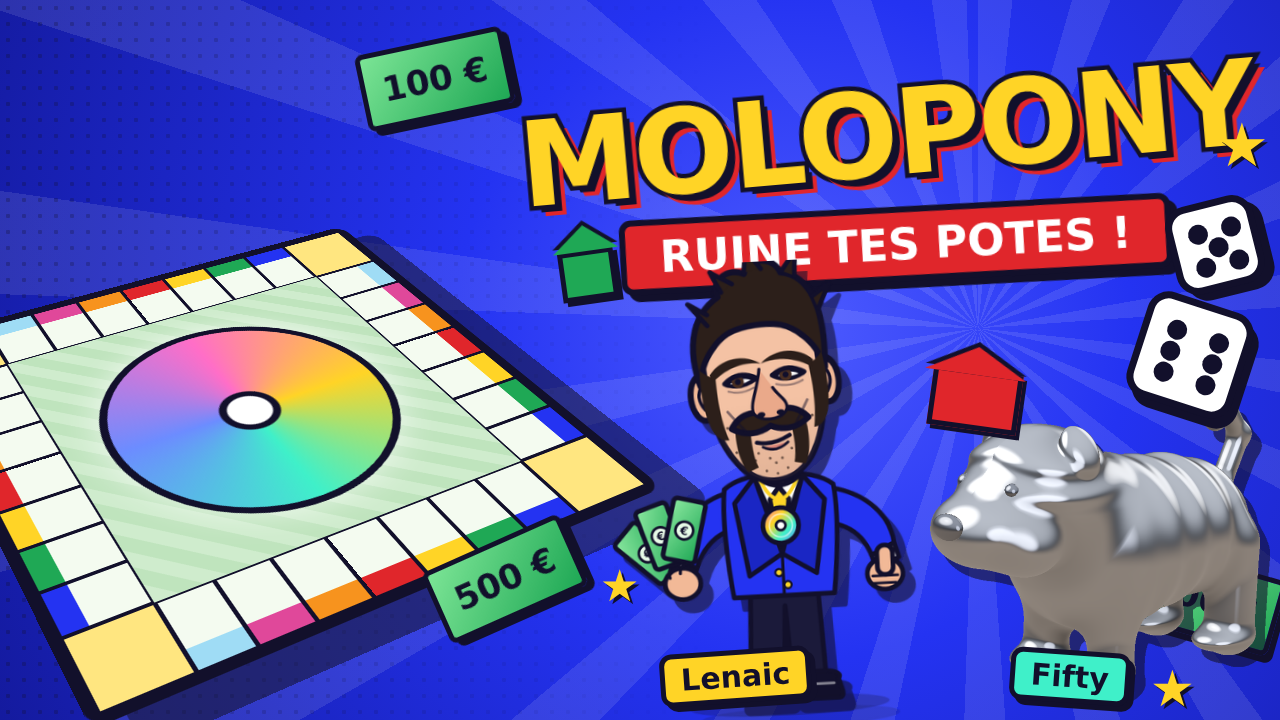
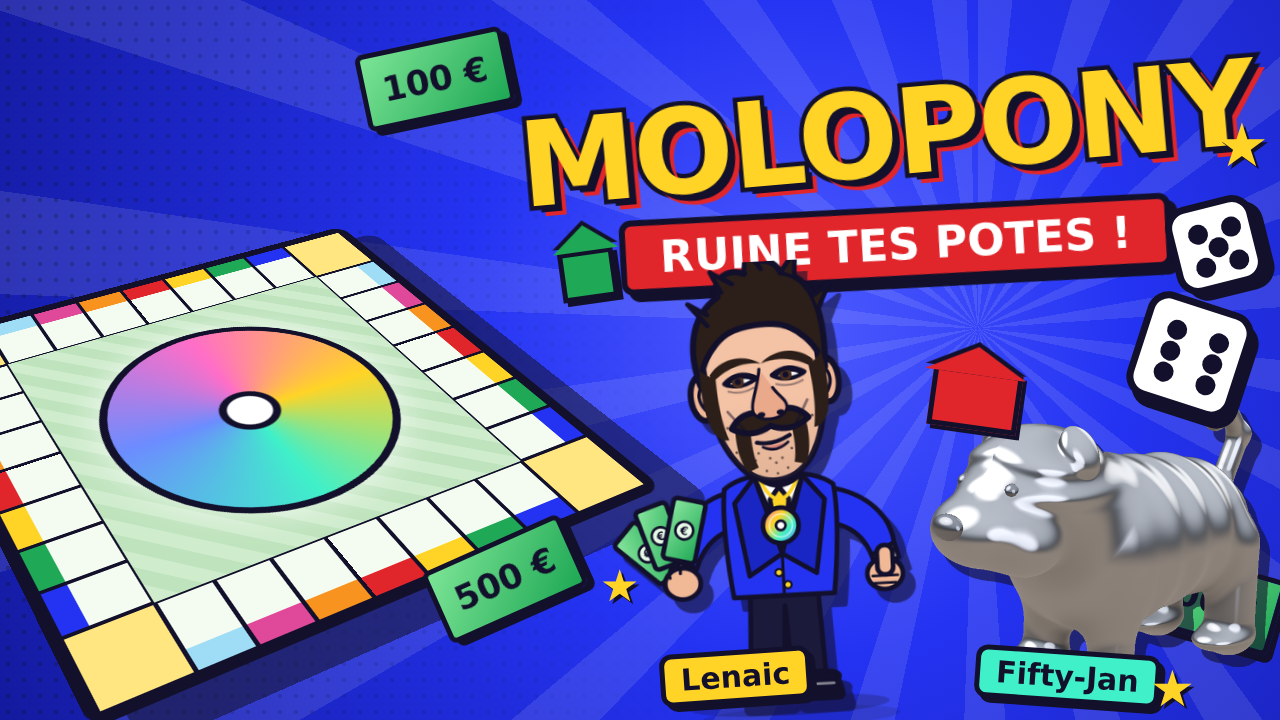
A

Changed region(s): [[0.75, 0.8861, 0.9375, 1.0]]

diff --git a/engine.js b/engine.js
@@ -25,7 +25,7 @@ const Engine = (() => {
       props: {}, decks: {
         chance: shuffle(CHANCE.map((_, i) => i)), chest: shuffle(CHEST.map((_, i) => i)),
       },
-      debt: null, auction: null, choice: null, pendingMove: 0, winner: null,
+      debt: null, auction: null, choice: null, vote: null, pendingMove: 0, winner: null,
       log: ['La partie commence !'], fx: [{ k: 'start' }],
     };
   }
@@ -240,6 +240,30 @@ const Engine = (() => {
     s.phase = 'roll'; fx(s, { k: 'turn', pid: cur(s).id });
   }
 
+  function doForfeit(s, pid) {
+    const au = s.auction, wasTurn = au && auctionTurn(s) === pid;
+    if (au && cur(s).id !== pid) {
+      if (!au.passed.includes(pid)) au.passed.push(pid);
+      if (au.lead === pid) { au.lead = null; au.bid = 0; }
+    }
+    bankrupt(s, pid, null);
+    if (s.auction && s.phase === 'auction') { auctionNext(s, false); if (s.auction && wasTurn) auctionNext(s, true); }
+  }
+
+  // Vote d'exclusion : majorité stricte des votants pour exclure ; sinon le joueur reste.
+  function resolveVote(s, force) {
+    const v = s.vote; if (!v) return;
+    const n = v.voters.length, tg = P(s, v.target);
+    let kick = null;
+    if (v.yes.length * 2 > n) kick = true;
+    else if (v.no.length * 2 >= n) kick = false;
+    else if (force) kick = v.yes.length > v.no.length;
+    if (kick === null) return;
+    s.vote = null;
+    if (kick && !tg.out) { log(s, tg.name + ' est exclu par vote 🚪'); doForfeit(s, tg.id); }
+    else log(s, 'Vote terminé : ' + tg.name + ' reste dans la partie.');
+  }
+
   // ---------- Actions ----------
   // Retourne null si OK, sinon un message d'erreur.
   function act(s, pid, a) {
@@ -346,15 +370,31 @@ const Engine = (() => {
         bankrupt(s, pid, s.debt.to); break;
       case 'forfeit': { // départ d'un joueur (appelé par l'hôte)
         if (p.out) return null;
-        const au = s.auction, wasTurn = au && auctionTurn(s) === pid;
-        if (au && cur(s).id !== pid) {
-          if (!au.passed.includes(pid)) au.passed.push(pid);
-          if (au.lead === pid) { au.lead = null; au.bid = 0; }
-        }
-        bankrupt(s, pid, null);
-        if (s.auction && s.phase === 'auction') { auctionNext(s, false); if (s.auction && wasTurn) auctionNext(s, true); }
+        doForfeit(s, pid);
         break;
       }
+      case 'votestart': { // lancé par l'hôte quand un joueur est déconnecté depuis trop longtemps
+        const t = P(s, a.target);
+        if (s.vote || !t || t.out || t.id === pid) return 'Vote impossible';
+        const voters = (a.voters || []).filter(id => id !== t.id && P(s, id) && !P(s, id).out);
+        if (!voters.length) return 'Personne pour voter';
+        s.vote = { target: t.id, voters, yes: [], no: [] };
+        log(s, '🗳 Vote : exclure ' + t.name + ' (déconnecté) ?');
+        break;
+      }
+      case 'vote': {
+        const v = s.vote;
+        if (!v || !v.voters.includes(pid) || v.yes.includes(pid) || v.no.includes(pid)) return 'Vote impossible';
+        (a.yes ? v.yes : v.no).push(pid);
+        resolveVote(s, false);
+        break;
+      }
+      case 'votecancel': // la cible est revenue
+        if (!s.vote) return null;
+        log(s, P(s, s.vote.target).name + ' est de retour, vote annulé.'); s.vote = null; break;
+      case 'voteend': // délai du vote écoulé
+        if (!s.vote) return null;
+        resolveVote(s, true); break;
       case 'end':
         if (!mine || ph !== 'end') return 'Pas maintenant';
         if (s.extra && p.jail < 0) { s.extra = false; s.phase = 'roll'; fx(s, { k: 'turn', pid }); log(s, p.name + ' rejoue (double)'); }

diff --git a/net.js b/net.js
@@ -112,7 +112,7 @@
   $('#btnLeave').onclick = leave;
   function leave() {
     if (salle) { try { salle.leave(); } catch (e) {} salle = null; }
-    G.state = null; G.local = false; hello = {}; roster = []; reported = null; UI.reset();
+    G.state = null; G.local = false; hello = {}; roster = []; reported = null; refused = {}; UI.reset();
     $('#menu').hidden = false; $('#room').hidden = true; show('#lobby');
     if (!hasSDK) switchTab('local');
   }
@@ -147,6 +147,7 @@
     show('#game');
     UI.update(s);
     maybeReport(s);
+    watchAbsent();
   }
 
   // Envoi d'une action (joueur local ou à distance)
@@ -167,24 +168,38 @@
     else if (d.t === 'state') { if (from.id !== G.meId) onState(d.s); }
     else if (d.t === 'act') {
       if (!G.host || !G.state) return;
+      if (!d.a || ['votestart', 'votecancel', 'forfeit'].includes(d.a.a)) return;
       const e = Engine.act(G.state, from.id, d.a);
       if (e) { salle.send({ t: 'err', to: from.id, msg: e }); return; }
       broadcast(G.state); UI.update(G.state); maybeReport(G.state);
     } else if (d.t === 'err') { if (d.to === G.meId) err(d.msg); }
   }
 
-  // Joueurs absents : l'hôte les met en faillite après 25 s
+  // Joueurs absents : au bout de 1 min, l'hôte lance un vote d'exclusion (les autres joueurs décident)
+  const ABSENT_MS = 60000;
+  let refused = {};
+  const hostHere = () => G.state.players.filter(p => !p.out && roster.some(r => r.id === p.id));
+  function hostAct(a) {
+    const who = hostHere()[0]; if (!who) return;
+    if (!Engine.act(G.state, who.id, a)) { broadcast(G.state); UI.update(G.state); maybeReport(G.state); }
+  }
   function watchAbsent() {
     if (!G.host || !G.state || G.local || G.state.phase === 'over') return;
-    G.state.players.forEach(p => {
+    const s = G.state;
+    s.players.forEach(p => {
       if (p.out) return;
       const here = roster.some(r => r.id === p.id);
-      if (here) { clearTimeout(absent[p.id]); delete absent[p.id]; }
-      else if (!absent[p.id]) absent[p.id] = setTimeout(() => {
+      if (here) {
+        clearTimeout(absent[p.id]); delete absent[p.id]; delete refused[p.id];
+        if (s.vote && s.vote.target === p.id) hostAct({ a: 'votecancel' });
+      } else if (!absent[p.id] && !refused[p.id]) absent[p.id] = setTimeout(() => {
         delete absent[p.id];
-        if (!G.host || !G.state || roster.some(r => r.id === p.id)) return;
-        if (!Engine.act(G.state, p.id, { a: 'forfeit' })) { broadcast(G.state); UI.update(G.state); maybeReport(G.state); }
-      }, 25000);
+        const st = G.state;
+        if (!G.host || !st || st.vote || st.phase === 'over' || roster.some(r => r.id === p.id)) return;
+        const voters = hostHere().map(x => x.id);
+        if (voters.length) hostAct({ a: 'votestart', target: p.id, voters });
+        refused[p.id] = true; // un seul vote par absence
+      }, ABSENT_MS);
     });
   }
 

diff --git a/vote.js b/vote.js
@@ -1,0 +1,22 @@
+// Vote d'exclusion d'un joueur déconnecté : bandeau affiché à tous les joueurs.
+const Vote = (function () {
+  function el() {
+    let d = document.getElementById('vote');
+    if (!d) { d = document.createElement('div'); d.id = 'vote'; d.hidden = true; document.body.appendChild(d); }
+    return d;
+  }
+  function render(s) {
+    const d = el(), v = s && s.vote;
+    if (!v || s.phase === 'over') { d.hidden = true; d.innerHTML = ''; return; }
+    const t = s.players.find(p => p.id === v.target);
+    const me = G.meId, can = v.voters.includes(me) && !v.yes.includes(me) && !v.no.includes(me);
+    const n = v.voters.length;
+    let h = '<b>🗳 ' + esc(t ? t.name : '?') + ' est déconnecté</b><span>Exclure ce joueur de la partie ? (' + v.yes.length + ' oui · ' + v.no.length + ' non · ' + n + ' votant' + (n > 1 ? 's' : '') + ')</span>';
+    if (can) h += '<div class="row"><button class="btn sm bad" data-v="1">Exclure</button><button class="btn sm go" data-v="0">Attendre</button></div>';
+    else if (v.voters.includes(me)) h += '<span>Vote enregistré ✔</span>';
+    else h += '<span>Les autres joueurs votent…</span>';
+    d.innerHTML = h; d.hidden = false;
+    d.querySelectorAll('[data-v]').forEach(b => b.onclick = () => G.send({ a: 'vote', yes: b.dataset.v === '1' }));
+  }
+  return { render };
+})();

diff --git a/style.css b/style.css
@@ -169,3 +169,7 @@ input[type=text] { font: inherit; padding: 9px 12px; border: 3px solid var(--ink
 .tks[data-n="3"] .tok + .tok, .tks[data-n="4"] .tok + .tok { margin-left: -1.6cqw; }
 .tks[data-n="5"] .tok, .tks[data-n="6"] .tok, .tks[data-n="7"] .tok, .tks[data-n="8"] .tok { width: 3.4cqw; height: 3.4cqw; min-width: 15px; min-height: 15px; }
 .tks[data-n="5"] .tok + .tok, .tks[data-n="6"] .tok + .tok, .tks[data-n="7"] .tok + .tok, .tks[data-n="8"] .tok + .tok { margin-left: -1.4cqw; }
+
+/* Vote d'exclusion */
+#vote { position: fixed; left: 50%; top: 10px; transform: translateX(-50%); z-index: 70; width: min(92vw, 460px); background: #fff; color: #12102b; border: 3px solid #12102b; border-radius: 14px; box-shadow: 0 6px 0 #12102b; padding: 10px 14px; display: flex; flex-direction: column; gap: 6px; text-align: center; font-size: 14px; }
+#vote .row { display: flex; gap: 8px; justify-content: center; }

diff --git a/data.js b/data.js
@@ -117,7 +117,7 @@ const CHEST = [
 const TOKENS = [
   { id: 'vape',     name: 'Cigarette électrique', emoji: '💨', img: 'img/pions/vape.png' },
   { id: 'cap',      name: 'Casquette (à Simon)', emoji: '🧢', img: 'img/pions/cap.png' },
-  { id: 'fifty',    name: 'Fifty le chien', emoji: '🐶', img: 'img/pions/fifty.png' },
+  { id: 'fifty',    name: 'Fifty-Jan le chien', emoji: '🐶', img: 'img/pions/fifty.png' },
   { id: 'slip',     name: 'Slip (sale et troué)', emoji: '🩲', img: 'img/pions/slip.png' },
   { id: 'nutella',  name: 'Pot de Nutella', emoji: '🫙', img: 'img/pions/nutella.png' },
   { id: 'bidon',    name: 'Bidon de cum', emoji: '🥛', img: 'img/pions/bidon.png' },

diff --git a/ui.js b/ui.js
@@ -250,6 +250,7 @@ const UI = (() => {
     const quiet = fresh && s.v > 1 ? true : (!fresh && s.v <= lastV);
     const prevV = lastV;
     G.state = s;
+    if (typeof Vote !== 'undefined') Vote.render(s);
     if (fresh) { shown = {}; lastPartie = s.partie; Modals.close(); }
     s.players.forEach(p => { if (shown[p.id] == null) shown[p.id] = p.pos; });
     if (quiet && !fresh) { return; }

diff --git a/index.html b/index.html
@@ -81,6 +81,7 @@
 <script src="fx.js"></script>
 <script src="ui.js"></script>
 <script src="modals.js"></script>
+<script src="vote.js"></script>
 <script src="net.js"></script>
 </body>
 </html>
